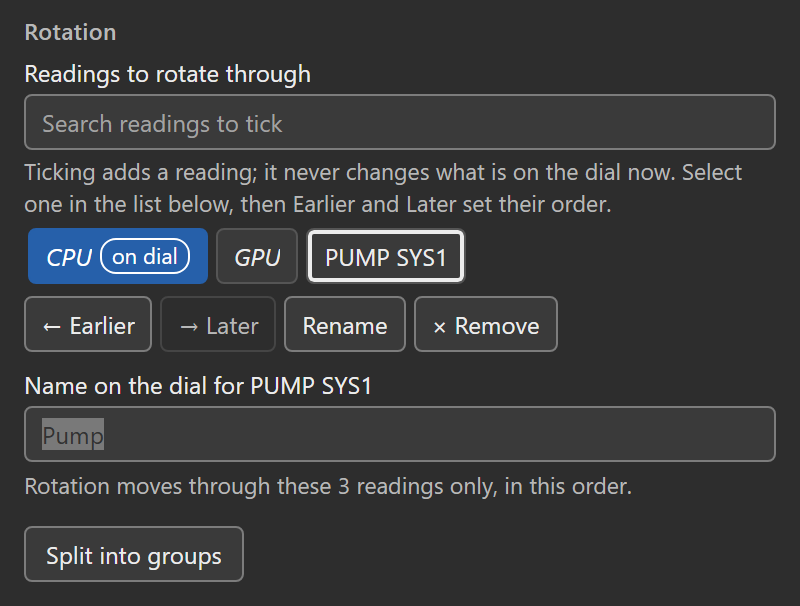
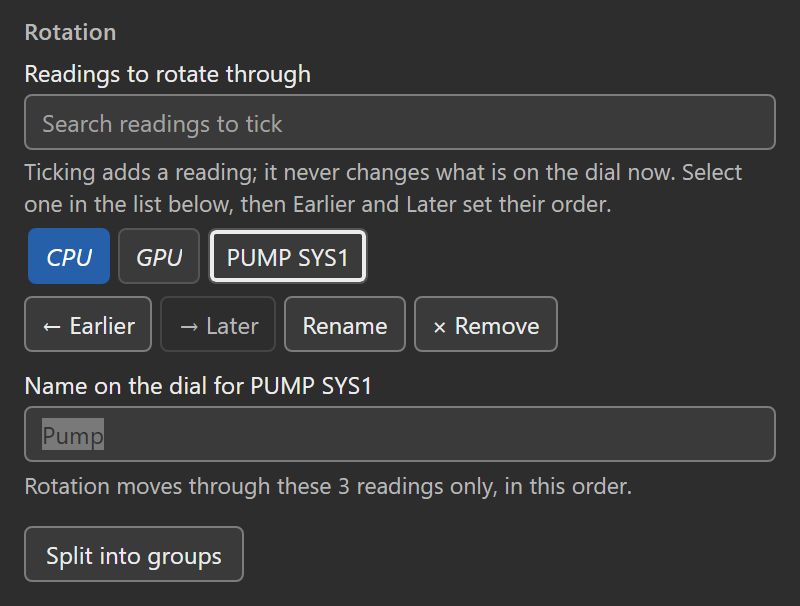
fix(dial panel): the reading on the dial is a fill, so the rotation list holds still
The "on dial" pill widened the chip it sat on, so with Auto cycle on the
list rewrapped and the panel's height and scroll jumped each time the
dial moved on (a row of 32 px at panel widths 340 to 380; the chip
widths changed with every step at any width). The chip keeps only its
fill now: the pinned header names the reading on the dial, a screen
reader still hears "on dial", and the tooltip adds "on the dial now".

In high contrast the dashed frame gives back its extra pixel in padding,
and on a chip that is also selected (the default when the panel opens)
the Highlight ring now sits inside the frame instead of covering it.

Two panel checks move the dial through every member, in normal colors
and in forced colors, and fail if any member's box moves or the ring
hides the frame. Docs say "highlighted"; the rotation, rename and group
captures and the reading-colors capture are retaken at panel build
1.7.0.0-d27.

Changed region(s): [[0.125, 0.3564, 0.5938, 0.4752]]

diff --git a/com.lawrensen.hwinfo.sdPlugin/ui/pi.css b/com.lawrensen.hwinfo.sdPlugin/ui/pi.css
@@ -1243,7 +1243,7 @@ body[data-kind="control"] > .hw-lede {
 	border-style: dashed;
 }
 
-/* Zoomed: a chip that carries a pill ("on dial", "missing", a sensor tag)
+/* Zoomed: a chip that carries a pill ("missing", a sensor tag)
    lets its pills drop under the name rather than squeeze the name to a
    letter or two (round 3, re-review VY03). */
 @media (max-width: 239px) {
@@ -1256,8 +1256,9 @@ body[data-kind="control"] > .hw-lede {
 	}
 }
 
-/* The reading on the dial right now: a fill plus a text badge, so the
-   distinction from membership never rests on color alone. */
+/* The reading on the dial right now: a fill, which never changes the
+   chip's size, so the list never rewraps as the dial moves on. The header
+   above names the reading in words; a screen reader hears "on dial". */
 .hw-set-chip.current {
 	background: var(--hw-select-bg);
 	border-color: var(--hw-select-bg);
@@ -1271,8 +1272,8 @@ body[data-kind="control"] > .hw-lede {
 	max-width: 170px;
 }
 
-/* "on dial" and "missing" are the non-color marks: they never
-   shrink or clip; the name beside them does. */
+/* "missing" is a non-color mark: a pill never shrinks or clips; the
+   name beside it does. */
 .hw-set-chip > .hw-chip-badge {
 	flex: none;
 	overflow: visible;
@@ -1300,8 +1301,8 @@ body[data-kind="control"] > .hw-lede {
 	font-style: italic;
 }
 
-/* "on dial": the smallest words in the panel, still at the swatch faces'
-   11 px, in a pill that fits the 28 px chip. */
+/* A chip's pill: the smallest words in the panel, still at the swatch
+   faces' 11 px, in a pill that fits the 28 px chip. */
 .hw-chip-badge {
 	padding: 0 5px;
 	border: 1px solid currentColor;
@@ -1442,7 +1443,7 @@ body[data-kind="control"] > .hw-lede {
 
 /* The rotation editor: each list is one listbox (one Tab stop), its
    members wrap as chips; the selected member wears a ring, the reading on
-   the dial a fill and a text badge, so neither rests on color alone. */
+   the dial a fill. */
 .hw-set-list {
 	display: flex;
 	flex-wrap: wrap;
@@ -1471,8 +1472,7 @@ body[data-kind="control"] > .hw-lede {
 	box-shadow: inset 0 0 0 2px #ffffff;
 }
 
-/* On the dial AND missing: the warning wins the fill; the badge still
-   says "on dial". */
+/* On the dial AND missing: the warning wins the fill. */
 .hw-set-chip.current.missing {
 	background: var(--hw-warn-bg);
 	border-color: var(--hw-warn-text);
@@ -1989,9 +1989,20 @@ body[data-kind="control"] > .hw-lede {
 	}
 
 	/* The reading on the dial: a dashed frame, so it never reads as the
-	   selection (which alone wears Highlight). */
+	   selection (which alone wears Highlight). The padding gives back the
+	   frame's extra pixel, so the chip keeps its size. */
 	.hw-set-chip.current {
 		border: 2px dashed CanvasText;
+	}
+
+	.hw-set-list .hw-set-chip.current {
+		padding: 0 7px;
+	}
+
+	/* Selected AND on the dial: the ring sits inside the frame instead of
+	   over it, so both marks show. */
+	.hw-set-list .hw-set-chip.current[aria-selected="true"] {
+		outline-offset: -4px;
 	}
 
 	.hw-set-tools button[aria-disabled="true"],

diff --git a/com.lawrensen.hwinfo.sdPlugin/ui/pi-common.js b/com.lawrensen.hwinfo.sdPlugin/ui/pi-common.js
@@ -15,7 +15,7 @@
 	// Build stamp: the panel names the code it actually runs, because the
 	// webview outlives on-disk refreshes and caches sub-resources. Read
 	// window.__hwPiVersion (or the console line) before trusting a repro.
-	const PI_BUILD = "1.7.0.0-d26";
+	const PI_BUILD = "1.7.0.0-d27";
 	window.__hwPiVersion = PI_BUILD;
 	console.log(`hwinfo PI build ${PI_BUILD}`);
 
@@ -375,7 +375,7 @@
 	// ONE toolbar (Earlier, Later, Rename, Remove) that acts on the selected
 	// member (W3C APG rearrangeable listbox: the options hold no controls of
 	// their own). The selection is the editor's own, panel-local and never
-	// written; the reading on the dial now is a separate mark ("on dial"),
+	// written; the reading on the dial now is a separate mark (a fill),
 	// and membership is the checklist's ticks. Selecting a member never
 	// changes what is on the dial.
 	let rotationSel = null; // { key, group: number | null }
@@ -510,9 +510,9 @@
 		const option = document.createElement("div");
 		option.setAttribute("role", "option");
 		option.id = `rot-${groupIndex === null ? "f" : groupIndex}-${index}`;
-		// "current" paints the reading on the dial right now (a fill AND an
-		// "on dial" badge, never color alone), so the open panel shows where
-		// rotation (and a group jump) landed.
+		// "current" paints the reading on the dial right now, so the open
+		// panel shows where rotation (and a group jump) landed. The mark never
+		// changes the chip's size.
 		option.className = "hw-set-chip" + (missing ? " missing" : "") + (current ? " current" : "");
 		option.dataset.key = key;
 		if (groupIndex !== null) option.dataset.group = String(groupIndex);
@@ -522,7 +522,7 @@
 		option.setAttribute("aria-setsize", String(count));
 		const tag = twinTagOf(key, rotationScope(), rotationNameOf);
 		const from = tag === null ? "" : ` (${sourceNameOf(key)})`;
-		option.title = missing ? MISSING_TITLE : custom !== undefined && label !== null ? `${label}${from}, shown on the dial as ${custom}` : `${label ?? key}${from}`;
+		option.title = missing ? MISSING_TITLE : (custom !== undefined && label !== null ? `${label}${from}, shown on the dial as ${custom}` : `${label ?? key}${from}`) + (current ? "; on the dial now" : "");
 		const name = document.createElement("span");
 		name.className = "hw-set-name" + (custom !== undefined ? " renamed" : "");
 		name.textContent = custom ?? label ?? key;
@@ -537,10 +537,13 @@
 			option.append(spoken);
 		}
 		if (current) {
-			const badge = document.createElement("span");
-			badge.className = "hw-chip-badge";
-			badge.textContent = "on dial";
-			option.append(badge);
+			// Spoken, never drawn: a drawn word widened this one chip, so the
+			// list rewrapped and the panel jumped each time the dial moved on.
+			// The header above names the reading in words.
+			const spoken = document.createElement("span");
+			spoken.className = "hw-sr-only";
+			spoken.textContent = " on dial";
+			option.append(spoken);
 		}
 		if (missing) option.append(missingPill());
 		return option;

diff --git a/com.lawrensen.hwinfo.sdPlugin/ui/sensor-reading.html b/com.lawrensen.hwinfo.sdPlugin/ui/sensor-reading.html
@@ -5,7 +5,7 @@
 		<title>Sensor Reading settings</title>
 		<script src="sdpi-components.js"></script>
 		<!-- ?v= busts the webview cache; bump it with the plugin version. -->
-		<link rel="stylesheet" href="pi.css?v=1.7.0.0-d26" />
+		<link rel="stylesheet" href="pi.css?v=1.7.0.0-d27" />
 	</head>
 	<body data-kind="key">
 		<header class="hw-head" id="hw-head" data-kind="key" data-pin>
@@ -464,9 +464,9 @@
 			</div>
 		</details>
 
-		<script src="pi-model.js?v=1.7.0.0-d26"></script>
-		<script src="pi-shell.js?v=1.7.0.0-d26"></script>
-		<script src="pi-common.js?v=1.7.0.0-d26"></script>
-		<script src="pi-control.js?v=1.7.0.0-d26"></script>
+		<script src="pi-model.js?v=1.7.0.0-d27"></script>
+		<script src="pi-shell.js?v=1.7.0.0-d27"></script>
+		<script src="pi-common.js?v=1.7.0.0-d27"></script>
+		<script src="pi-control.js?v=1.7.0.0-d27"></script>
 	</body>
 </html>

diff --git a/com.lawrensen.hwinfo.sdPlugin/ui/control.html b/com.lawrensen.hwinfo.sdPlugin/ui/control.html
@@ -5,7 +5,7 @@
 		<title>HWiNFO Control settings</title>
 		<script src="sdpi-components.js"></script>
 		<!-- ?v= busts the webview cache; bump it with the plugin version. -->
-		<link rel="stylesheet" href="pi.css?v=1.7.0.0-d26" />
+		<link rel="stylesheet" href="pi.css?v=1.7.0.0-d27" />
 	</head>
 	<body data-kind="control">
 		<header class="hw-head" id="hw-head" data-kind="control">
@@ -72,9 +72,9 @@
 			</div>
 		</details>
 
-		<script src="pi-model.js?v=1.7.0.0-d26"></script>
-		<script src="pi-shell.js?v=1.7.0.0-d26"></script>
-		<script src="pi-command.js?v=1.7.0.0-d26"></script>
-		<script src="pi-control.js?v=1.7.0.0-d26"></script>
+		<script src="pi-model.js?v=1.7.0.0-d27"></script>
+		<script src="pi-shell.js?v=1.7.0.0-d27"></script>
+		<script src="pi-command.js?v=1.7.0.0-d27"></script>
+		<script src="pi-control.js?v=1.7.0.0-d27"></script>
 	</body>
 </html>

diff --git a/com.lawrensen.hwinfo.sdPlugin/ui/sensor-dial.html b/com.lawrensen.hwinfo.sdPlugin/ui/sensor-dial.html
@@ -5,7 +5,7 @@
 		<title>Sensor Dial settings</title>
 		<script src="sdpi-components.js"></script>
 		<!-- ?v= busts the webview cache; bump it with the plugin version. -->
-		<link rel="stylesheet" href="pi.css?v=1.7.0.0-d26" />
+		<link rel="stylesheet" href="pi.css?v=1.7.0.0-d27" />
 	</head>
 	<body data-kind="dial">
 		<header class="hw-head" id="hw-head" data-kind="dial" data-pin>
@@ -493,9 +493,9 @@
 			</div>
 		</details>
 
-		<script src="pi-model.js?v=1.7.0.0-d26"></script>
-		<script src="pi-shell.js?v=1.7.0.0-d26"></script>
-		<script src="pi-common.js?v=1.7.0.0-d26"></script>
-		<script src="pi-control.js?v=1.7.0.0-d26"></script>
+		<script src="pi-model.js?v=1.7.0.0-d27"></script>
+		<script src="pi-shell.js?v=1.7.0.0-d27"></script>
+		<script src="pi-common.js?v=1.7.0.0-d27"></script>
+		<script src="pi-control.js?v=1.7.0.0-d27"></script>
 	</body>
 </html>

diff --git a/com.lawrensen.hwinfo.sdPlugin/ui/detail-slot.html b/com.lawrensen.hwinfo.sdPlugin/ui/detail-slot.html
@@ -3,7 +3,7 @@
 	<head>
 		<meta charset="utf-8" />
 		<title>Sensor detail tile</title>
-		<link rel="stylesheet" href="pi.css?v=1.7.0.0-d26" />
+		<link rel="stylesheet" href="pi.css?v=1.7.0.0-d27" />
 	</head>
 	<body data-kind="slot">
 		<!-- This tile has no settings of its own: its role is baked into the
@@ -21,6 +21,6 @@
 			<p class="hw-lede" id="slot-explain">This tile belongs to the plugin-managed sensor detail view and has no settings of its own.</p>
 			<p class="hw-lede">To change what the view lists, its title or its look, go back and select the Sensor Reading key that opened it, then open its Press section. The Back tile at the top left returns to the profile you came from.</p>
 		</div>
-		<script src="pi-slot.js?v=1.7.0.0-d26"></script>
+		<script src="pi-slot.js?v=1.7.0.0-d27"></script>
 	</body>
 </html>

diff --git a/docs/sensor-dial.md b/docs/sensor-dial.md
@@ -39,7 +39,7 @@ Three things keep the short labels readable:
 - **Values share one right-aligned column.** Every value's ones digit lands on the same column edge, with units in their own column beside it. The three-row face steps the value size down a ladder until the widest visible value fits, and each row's label runs up to its own value before it shortens. Its columns stay in place unless a wide rate unit (Mbps, Gbps, MB/s, MT/s) is in view; since 1.7 the value and unit columns then move left together so the unit is not cut at the screen edge. The two-row face places its columns by the widest visible value, so a short value leaves more room for the labels.
 - **You can rename any reading in the rotation.** Select it in the rotation list under **Readings to rotate through** and press **Rename** in the toolbar under the list (or double-click it, or press F2 in the list), then type a new name in the **Name on the dial for …** field (Enter or click away to save; clear it to go back to HWiNFO's name). The name shows on that row and as the dial's title whenever that reading is selected, in both views. Unticking a reading keeps its name for later.
 
-  ![The Rotation group of the dial's settings panel: the Readings to rotate through search and its help line, then a rotation list of three readings, two already renamed "CPU" (marked on dial) and "GPU", and the third, PUMP SYS1, selected. Under the list, the Earlier, Later, Rename and Remove toolbar with Later dimmed because PUMP SYS1 is last, the "Name on the dial for PUMP SYS1" field with "Pump" typed and selected, the line "Rotation moves through these 3 readings only, in this order." and the Split into groups button.]({{ '/assets/img/pi-dial-rename.png' | relative_url }})
+  ![The Rotation group of the dial's settings panel: the Readings to rotate through search and its help line, then a rotation list of three readings, two already renamed "CPU" (filled, as the one on the dial) and "GPU", and the third, PUMP SYS1, selected. Under the list, the Earlier, Later, Rename and Remove toolbar with Later dimmed because PUMP SYS1 is last, the "Name on the dial for PUMP SYS1" field with "Pump" typed and selected, the line "Rotation moves through these 3 readings only, in this order." and the Split into groups button.]({{ '/assets/img/pi-dial-rename.png' | relative_url }})
 
   For example, rename two `SPD Hub Temperature` readings to `DIMM 1` and `DIMM 2` for display. This does not change HWiNFO's names, so it does not separate two Gadget readings that share a name.
 
@@ -84,7 +84,7 @@ measurement to avoid that.
 
 ![The Display section of the dial's settings panel: Text color on Theme text, View on Overview (three rows), Row labels on Always full labels, Color numbers by sensor type unticked, and Reading colors on Signal (four hues), with a color well and an Auto button for each reading: CPU Temp blue, GPU Temp pink, Pump green, GPU Power gold and GPU Load blue.]({{ '/assets/img/pi-dial-reading-colors-1.7.png' | relative_url }})
 
-*An actual settings-panel capture at panel build 1.7.0.0-d26 (the marker in its title bar), served by the local test host with live HWiNFO Shared Memory readings.*
+*An actual settings-panel capture at panel build 1.7.0.0-d27 (the marker in its title bar), served by the local test host with live HWiNFO Shared Memory readings.*
 
 ![Three-row and two-row dial examples comparing automatic text with individual reading colors. CPU temperature is blue, GPU temperature pink, pump speed green, GPU power gold and GPU load blue.]({{ '/assets/img/dial-reading-colors-1.7.png' | relative_url }})
 
@@ -111,11 +111,11 @@ These are the **Legacy** preset defaults, which every dial runs until you pick o
 
 Three settings control what rotation can reach:
 
-- **Rotation set.** Tick readings in the **Readings to rotate through** search (under Reading, in the **Rotation** group) to build a custom list; the dial then rotates through *only* those readings, in list order, wrapping at the ends. Ticking never changes the reading on the dial; the **On the dial now** picker above it does that. The set can mix readings from different sensors. Picked readings show as a list under the search, in rotation order; select one and use **Earlier**, **Later**, **Rename** or **Remove** in the toolbar under it (in the list, Alt with an arrow key moves it and F2 renames it), and the reading on the dial right now is highlighted and badged **on dial**: turn, jump groups or let the auto cycle run with the panel open and the mark moves with it. A ticked reading HWiNFO is not publishing right now keeps its place, shows a **missing** pill and is skipped until it returns; the note under the list counts only the readings the dial steps through. Two readings with the same name (two drives' Drive Temperature) carry the word that tells their sensors apart, such as **#0** and **#1**. When the reading on the dial is not in the set, a line under the list says the next step leaves it and names where it goes. Leave the set empty for the default same-sensor behavior. The set can also be [split into named rotation groups](controls.md#rotation-groups): a plain turn then stays inside one group and a pressed turn (Elite) jumps between groups.
+- **Rotation set.** Tick readings in the **Readings to rotate through** search (under Reading, in the **Rotation** group) to build a custom list; the dial then rotates through *only* those readings, in list order, wrapping at the ends. Ticking never changes the reading on the dial; the **On the dial now** picker above it does that. The set can mix readings from different sensors. Picked readings show as a list under the search, in rotation order; select one and use **Earlier**, **Later**, **Rename** or **Remove** in the toolbar under it (in the list, Alt with an arrow key moves it and F2 renames it), and the reading on the dial right now is highlighted: turn, jump groups or let the auto cycle run with the panel open and the mark moves with it. A ticked reading HWiNFO is not publishing right now keeps its place, shows a **missing** pill and is skipped until it returns; the note under the list counts only the readings the dial steps through. Two readings with the same name (two drives' Drive Temperature) carry the word that tells their sensors apart, such as **#0** and **#1**. When the reading on the dial is not in the set, a line under the list says the next step leaves it and names where it goes. Leave the set empty for the default same-sensor behavior. The set can also be [split into named rotation groups](controls.md#rotation-groups): a plain turn then stays inside one group and a pressed turn (Elite) jumps between groups.
 
   ![The top of the dial's settings panel: the header with the dial face beside CPU (Tctl/Tdie) and Live · Shared Memory, the theme strip on Default (shared: Void), then Reading with "cpu" typed in the Readings to rotate through search. The results sit under their sensor, each row a checkbox with its live value and type; Core 0 VID and Core 1 VID are ticked and form the rotation list under the search, with the Earlier, Later, Rename and Remove toolbar. A line at the bottom says CPU (Tctl/Tdie) is on the dial but not in this rotation, so the next step moves to Core 0 VID and does not come back.]({{ '/assets/img/pi-dial-picker.png' | relative_url }})
 
-  ![The top of the dial's settings panel: the header with the dial face beside CPU (Tctl/Tdie) and Live · Shared Memory, the theme strip on Default (shared: Void), On the dial now with the line "Turns and pressed turns change this too.", and a rotation of three readings from three sensors (CPU (Tctl/Tdie), marked on dial and selected, GPU Temperature and PUMP SYS1) with the Earlier, Later, Rename and Remove toolbar and Split into groups below it, then the title fields and the start of Display.]({{ '/assets/img/pi-dial-rotation.png' | relative_url }})
+  ![The top of the dial's settings panel: the header with the dial face beside CPU (Tctl/Tdie) and Live · Shared Memory, the theme strip on Default (shared: Void), On the dial now with the line "Turns and pressed turns change this too.", and a rotation of three readings from three sensors (CPU (Tctl/Tdie), filled as the one on the dial and selected, GPU Temperature and PUMP SYS1) with the Earlier, Later, Rename and Remove toolbar and Split into groups below it, then the title fields and the start of Display.]({{ '/assets/img/pi-dial-rotation.png' | relative_url }})
 - **Ignore turns.** A checkbox under Controls that makes the dial ignore rotation entirely, so a bump against the deck can never move you off the reading you chose. Push, touch, and the settings panel still work.
 - **Auto cycle.** A select under Controls that steps to the next reading in the rotation set (or the picked sensor's readings) on a timer, from every 5 seconds to every 5 minutes. It runs even while turns are ignored, which makes a hands-off tour of your picked readings: build a set, ignore turns, set a cycle time. A manual turn restarts the timer, and each step clears the custom title just like a manual turn (unless **Title when the dial moves on** is set to **Stays for this dial**). Timing rides the poll interval (**Read every**), so a step can land up to one read late. Ticking **Auto cycle jumps to a critical reading** (under Alerts) makes the cycle alert-aware: it holds instead of rotating away while the shown reading is critical, and its next step goes to a critical member of the set instead of the next one in order. Left unticked (the default), alerts do not steer the cycle; see [Dial controls & presets](controls.md#thresholds-and-mixed-units).
 
@@ -147,7 +147,7 @@ Reading and Display start open; each folded section's title line summarizes what
 | --- | --- | --- |
 | Theme strip | **Theme** | Under the header, open on a first visit; it folds like a section, and folded its line keeps the checked theme as a small chip. When the dial's own theme differs from the shared one, **Make shared** takes Change's place and makes that theme the shared one, setting the dial back to Default. One line names what is drawn and where it comes from, for example **Default** (shared: Void) with **Change**, which opens the shared theme under Advanced, or Ember (set on this dial). Under it, a chip per theme with its name on it, led by the **Default** chip, which follows the shared theme. See [Themes](themes.md). |
 | Reading | **On the dial now** | Searchable picker over every reading HWiNFO publishes, with live values; the button beside it reloads the sensor list. The line under it names what else changes the reading on this dial, from the dial's control map, for example *Turns and pressed turns change this too.* Arrow keys browse, Enter picks, Tab or a click elsewhere closes without changing anything. |
-| Reading | **Readings to rotate through** | The **Rotation** group sits right under **On the dial now**: first a search whose results tick readings in or out (ticking never changes what is on the dial now), then the ticked readings in rotation order as one list, the one on the dial marked **on dial**, so you can watch it move as the dial turns, and one HWiNFO no longer lists marked **missing**. Select a reading and use the toolbar under the list: **Earlier**, **Later**, **Rename**, **Remove**. The list is one Tab stop; arrow keys select and Delete removes. Empty means every reading of the picked sensor: an overview then shows the reading on the dial and the ones after it in HWiNFO's list. Can be split into named [rotation groups](controls.md#rotation-groups). |
+| Reading | **Readings to rotate through** | The **Rotation** group sits right under **On the dial now**: first a search whose results tick readings in or out (ticking never changes what is on the dial now), then the ticked readings in rotation order as one list, the one on the dial highlighted, so you can watch it move as the dial turns, and one HWiNFO no longer lists marked **missing**. Select a reading and use the toolbar under the list: **Earlier**, **Later**, **Rename**, **Remove**. The list is one Tab stop; arrow keys select and Delete removes. Empty means every reading of the picked sensor: an overview then shows the reading on the dial and the ones after it in HWiNFO's list. Can be split into named [rotation groups](controls.md#rotation-groups). |
 | Reading | **Title on the dial** | Custom title; blank falls back to the reading's own (renamed) label. |
 | Reading | **Title when the dial moves on** | **Clears** (default): a custom title clears whenever the dial moves on to another reading, by a turn, a press or touch set to step, a Control key or the auto cycle; picking a reading in the settings panel keeps it. **Stays for this dial** keeps it as a fixed title. |
 | Display | **Text color** | **Default** (follows the shared Text color and names it, for example *Default (shared: Theme text)*), **Theme text**, **Dimmed**, or **Custom color** with an exact color. See [Themes](themes.md#text-theme-dim-or-custom). |

diff --git a/docs/controls.md b/docs/controls.md
@@ -38,7 +38,7 @@ Build them in the dial's settings panel. **Split into groups** under the rotatio
 
 Removing a group that holds readings, and a merge that would drop a group name or fold two or more groups of readings into one, ask for a second press: the first press arms the button, which then says what goes (for example **Remove GPU and its 2 readings?**), and a quick double click only arms it. An empty group goes at once.
 
-![The rotation split into two named groups, with the search above them labelled Readings for GPU. Overview holds CPU, GPU and Pump, with CPU marked on dial and selected and the Earlier, Later, Rename and Remove toolbar under it; GPU holds GPU Memory Junction Temperature and GPU Clock, its radio marked so ticks land there, with the dimmed hint "Select one to move, rename or remove it" under it. Each group has a name field and a × button. Below: the note "2 groups. Rotation needs two or more readings in a group to move inside it.", the Add group and Merge back into one set buttons, and the line "New ticks go to the marked group. Turns stay inside a group; a pressed turn jumps to the next group and shows its name."]({{ '/assets/img/pi-dial-groups.png' | relative_url }})
+![The rotation split into two named groups, with the search above them labelled Readings for GPU. Overview holds CPU, GPU and Pump, with CPU filled as the one on the dial and selected and the Earlier, Later, Rename and Remove toolbar under it; GPU holds GPU Memory Junction Temperature and GPU Clock, its radio marked so ticks land there, with the dimmed hint "Select one to move, rename or remove it" under it. Each group has a name field and a × button. Below: the note "2 groups. Rotation needs two or more readings in a group to move inside it.", the Add group and Merge back into one set buttons, and the line "New ticks go to the marked group. Turns stay inside a group; a pressed turn jumps to the next group and shows its name."]({{ '/assets/img/pi-dial-groups.png' | relative_url }})
 
 How groups behave:
 

diff --git a/docs/whats-new-1.7.md b/docs/whats-new-1.7.md
@@ -52,8 +52,8 @@ Control key has **Command** and **Advanced**.
   Arrow keys browse, Enter picks, and Tab or a click elsewhere closes the list
   without changing anything.
 - **Rotation on a dial.** Tick readings under **Readings to rotate through**.
-  The rotation shows as one list with the reading on the dial marked
-  **on dial**. Select a reading, then use **Earlier**, **Later**, **Rename** or
+  The rotation shows as one list with the reading on the dial highlighted.
+  Select a reading, then use **Earlier**, **Later**, **Rename** or
   **Remove**; at a group's edge, Earlier and Later move it into the
   neighboring group. **Split into groups**, **Add group** and **Merge back
   into one set** manage [rotation groups](controls.md#rotation-groups).
@@ -77,7 +77,7 @@ Control key has **Command** and **Advanced**.
   second click in its box and when the panel loses focus. Text typed just
   before you select another key is saved as the pointer leaves the panel.
 
-![The dial's settings panel: the header with the dial's face, the theme strip, then Reading with On the dial now, the Rotation list of three readings with CPU (Tctl/Tdie) selected and marked on dial, the Earlier, Later, Rename and Remove buttons under it, Split into groups, and Title on the dial beside Title when the dial moves on.]({{ '/assets/img/pi-dial-rotation.png' | relative_url }})
+![The dial's settings panel: the header with the dial's face, the theme strip, then Reading with On the dial now, the Rotation list of three readings with CPU (Tctl/Tdie) selected and filled as the one on the dial, the Earlier, Later, Rename and Remove buttons under it, Split into groups, and Title on the dial beside Title when the dial moves on.]({{ '/assets/img/pi-dial-rotation.png' | relative_url }})
 
 *Actual settings-panel capture using live HWiNFO readings in a mock Stream
 Deck host.*
